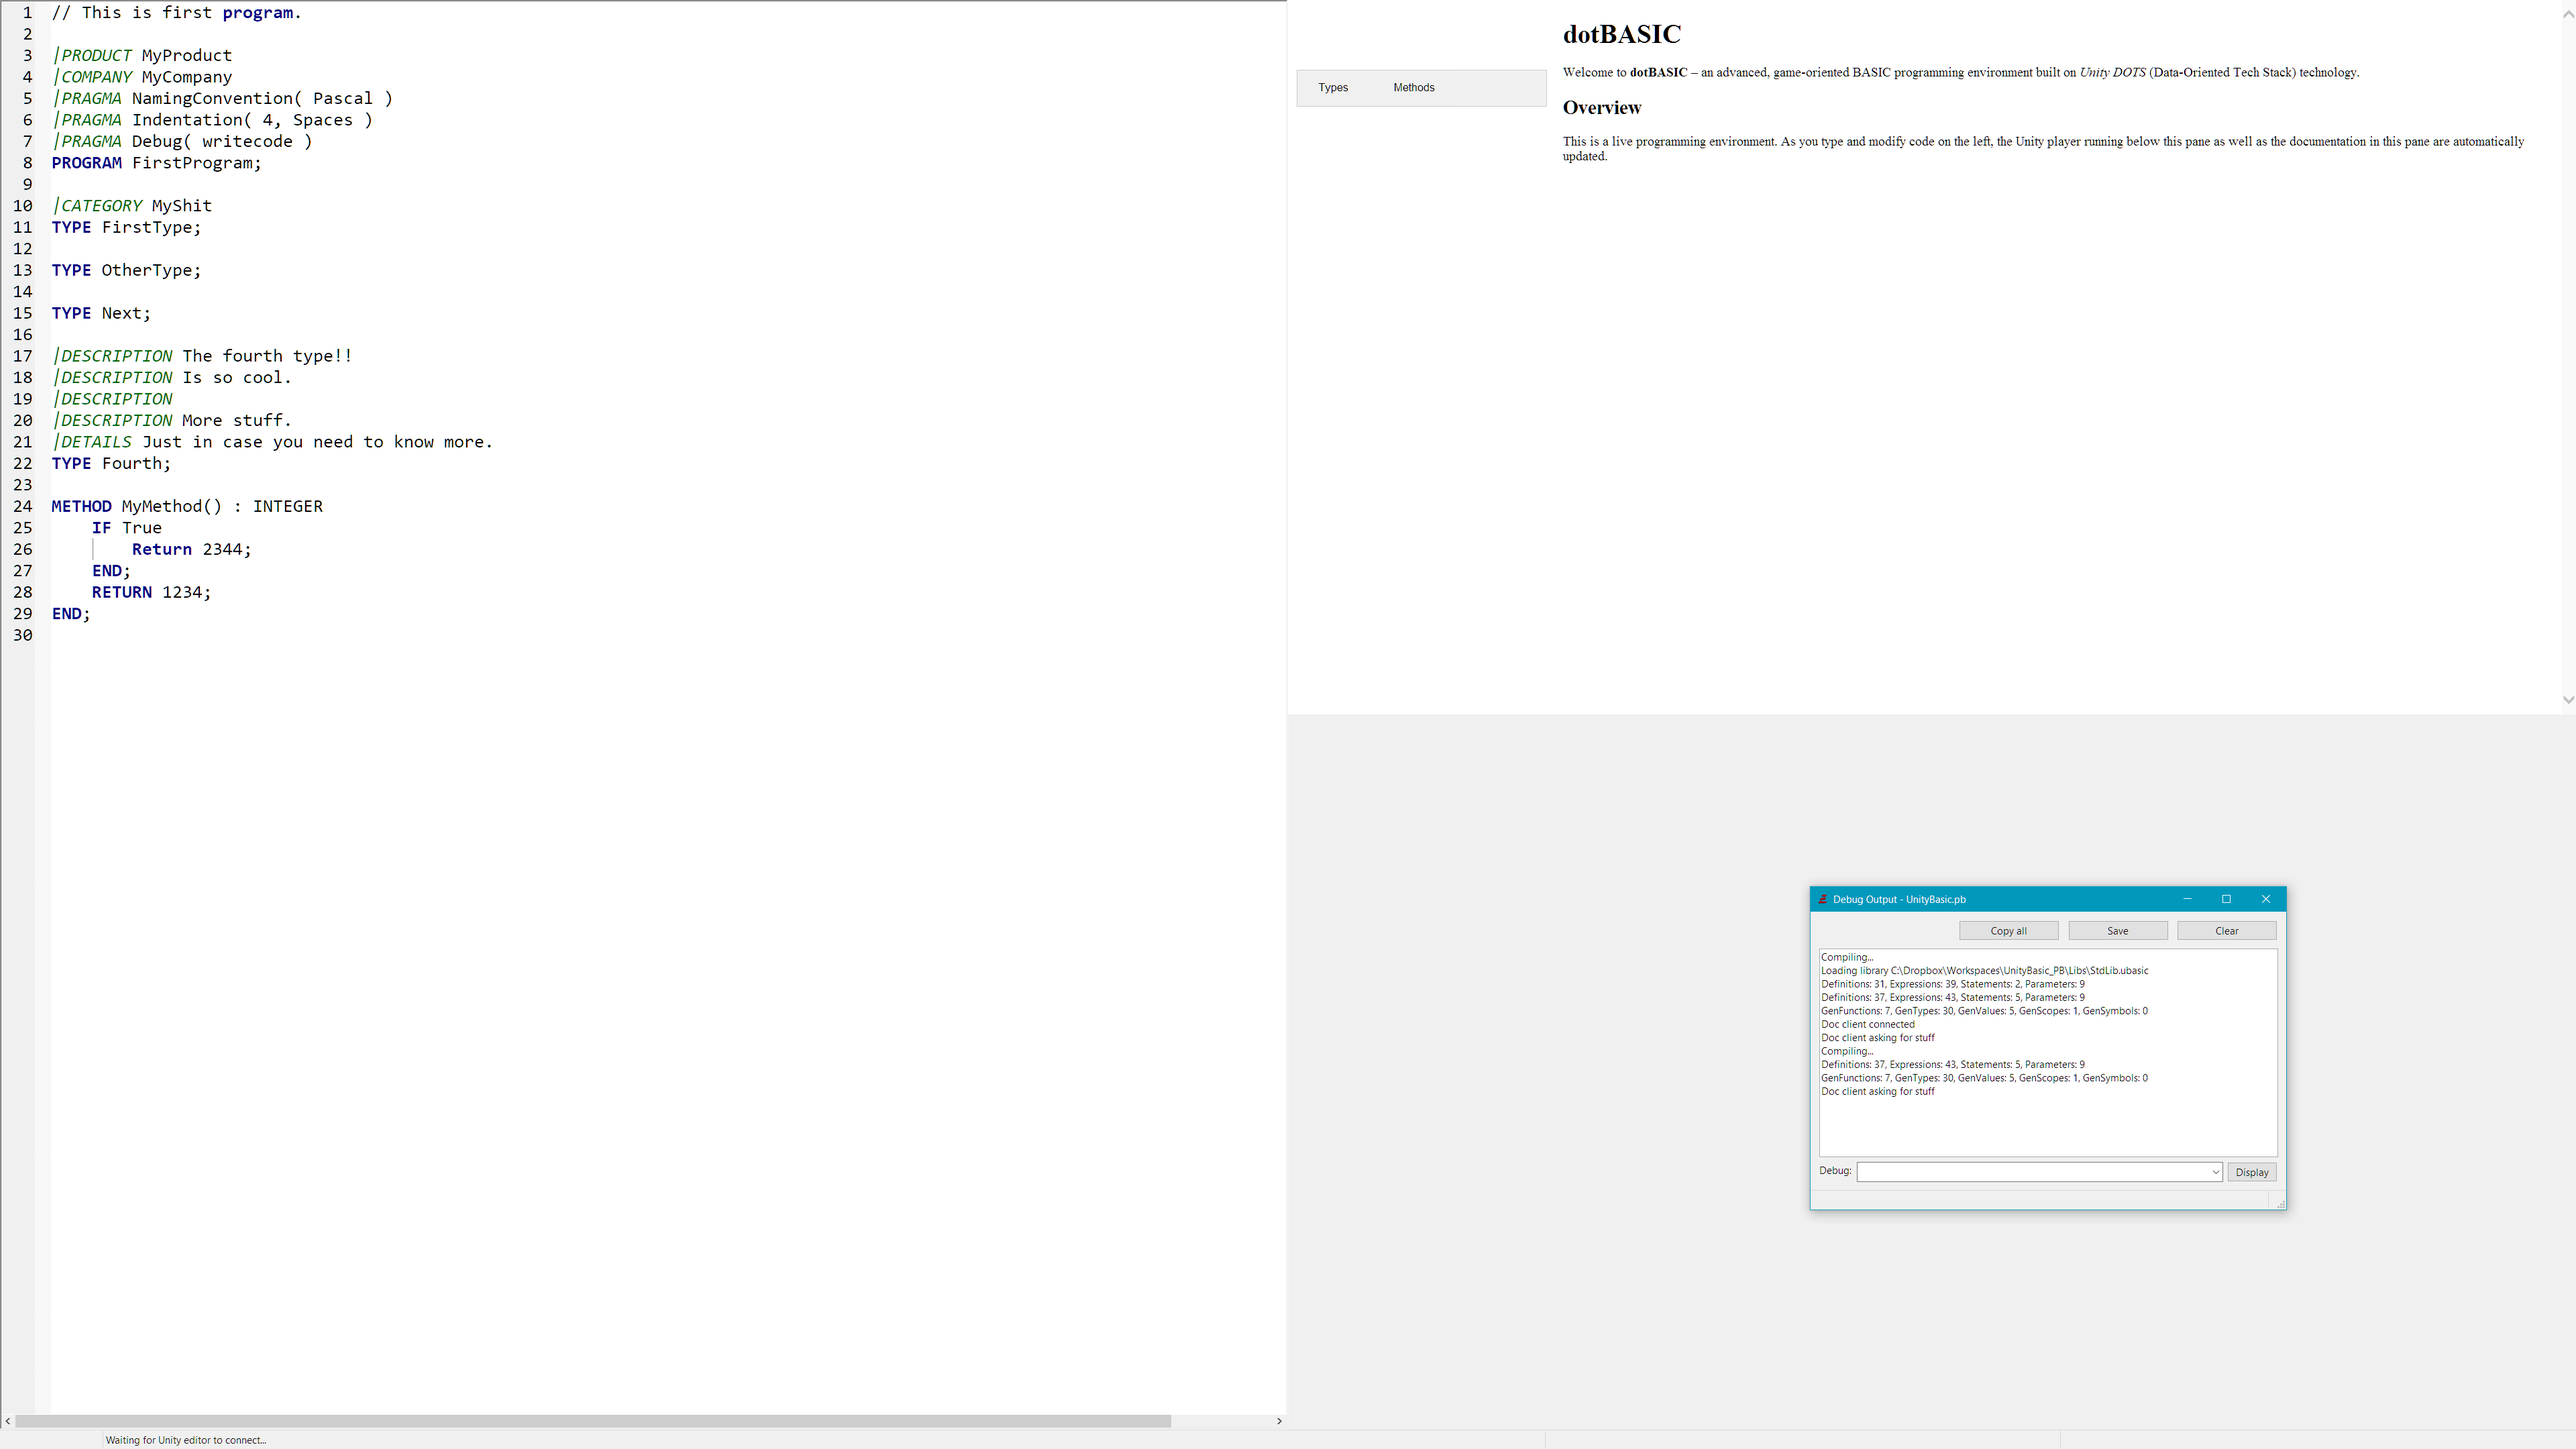
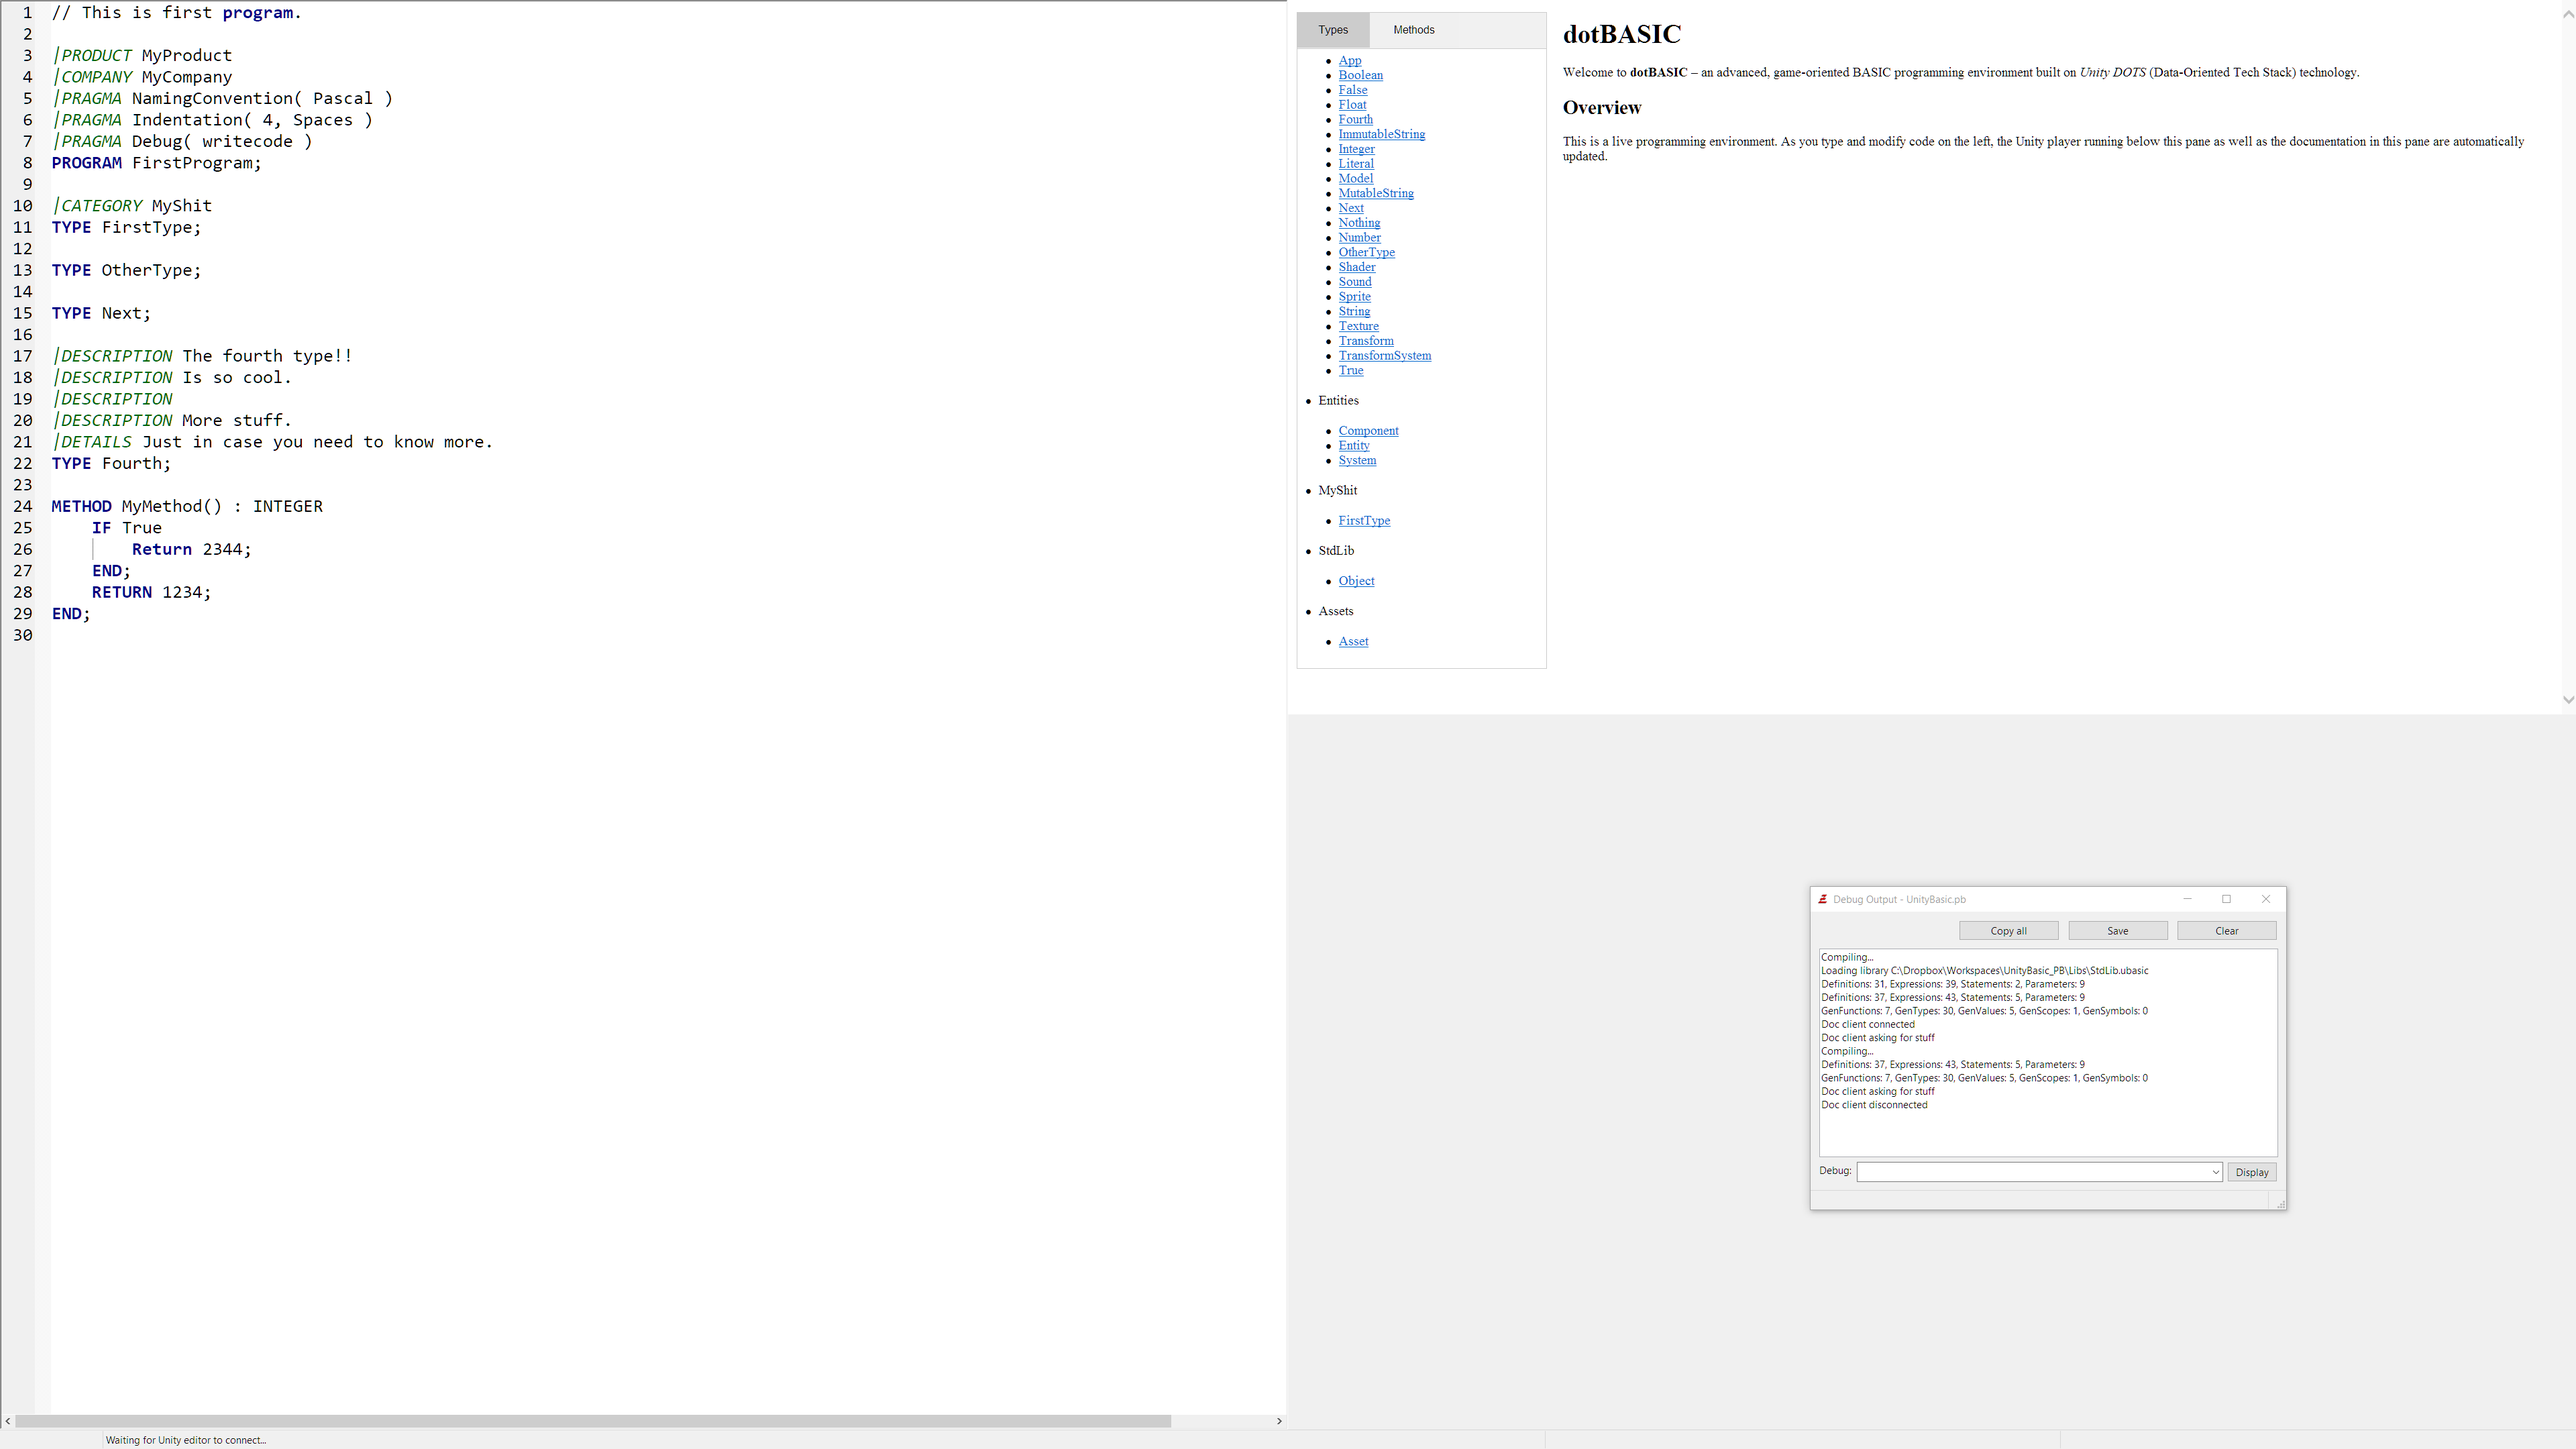
Some more details in README.

Changed region(s): [[0.6875, 0.5894, 0.9062, 0.6514], [0.5, 0.0, 0.5625, 0.2792], [0.5, 0.3102, 0.5312, 0.3412]]

diff --git a/README.md b/README.md
@@ -1,8 +1,12 @@
 # UnityBasic
 
-A fun hack project to write a Basic IDE that (hot) compiles to a Unity project. Pushed it for a week to see how far I can go but didn't really reach the point of running a minimal version running end-to-end.
+A fun hack project to write a BASIC IDE that (hot) compiles to a Unity project. Pushed it for a week to see how far I can go but didn't really reach the point of running a minimal version running end-to-end.
 
 Written in [PureBasic](https://www.purebasic.com).
+
+Has some interesting stuff like live-generating docs from the code and running an embedded HTTP server to serve them to the embedded HTML view :) Also has a live network connection to C# code running in the Unity editor that receives program updates as it is compiled.
+
+The "BASIC" variant is really just a BASIC-ized version of [Flux](https://github.com/Rene-Damm/flux-ml).
 
 ![Screenshot](./Screenshot.png)
 
